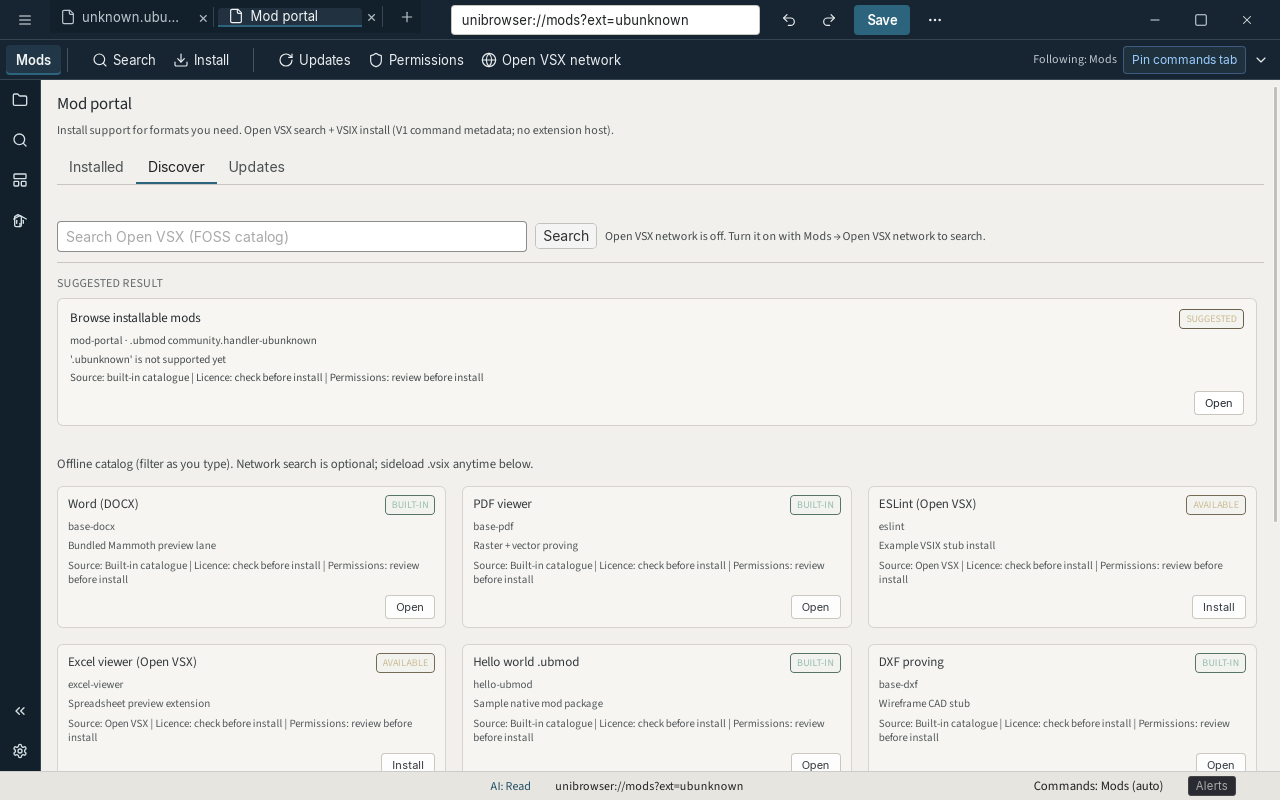
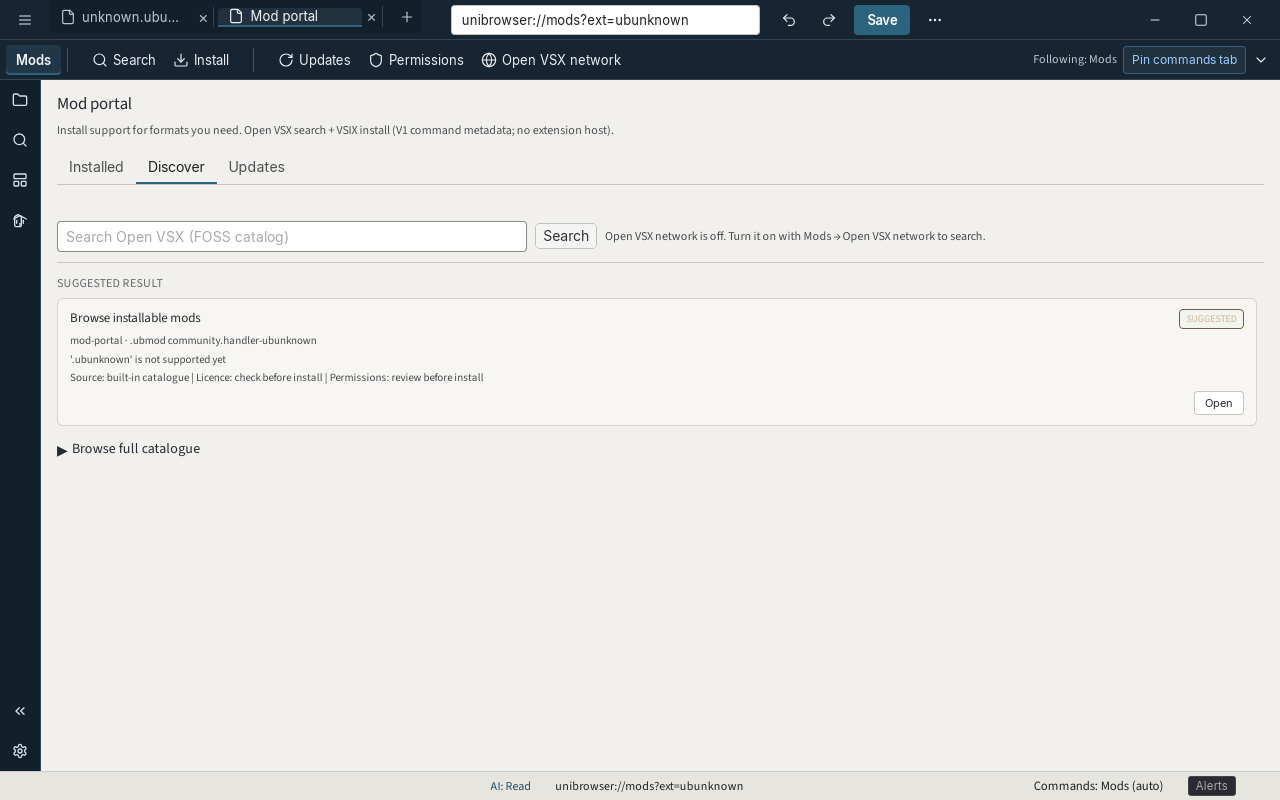
UI-28: Focus Mod Portal discovery

diff --git a/crates/unibrowser-desktop/src/main.ts b/crates/unibrowser-desktop/src/main.ts
@@ -941,6 +941,9 @@ function setModPortalTab(index: number) {
   modPortalPanel.querySelectorAll<HTMLButtonElement>(".mod-portal-tab").forEach((tab, i) => {
     tab.setAttribute("aria-current", i === index ? "page" : "false");
   });
+  modPortalPanel.querySelectorAll<HTMLElement>("[data-mod-portal-section]").forEach((section) => {
+    section.classList.toggle("hidden", section.dataset.modPortalSection !== String(index));
+  });
 }
 
 async function runModPortalOpenVsxSearch() {
@@ -1039,9 +1042,12 @@ function renderModPortal(portal: ModPortalDto | null) {
   catalogResults.className = "mod-portal-catalog mod-portal-catalog--restrained";
   const results = document.createElement("div");
   results.className = "mod-portal-results";
+  const discoverSection = document.createElement("section");
+  discoverSection.className = "mod-portal-discover";
+  discoverSection.dataset.modPortalSection = "1";
   searchRow.append(searchInput, searchBtn);
   renderModNetworkStatus(searchRow);
-  modPortalPanel.appendChild(searchRow);
+  discoverSection.appendChild(searchRow);
 
   const featured = document.createElement("section");
   featured.className = "mod-portal-featured";
@@ -1068,12 +1074,16 @@ function renderModPortal(portal: ModPortalDto | null) {
   if (primarySuggestion) {
     appendModSuggestionCard(featured, primarySuggestion, suggestionHandler, { featured: true });
   }
-  modPortalPanel.appendChild(featured);
+  discoverSection.appendChild(featured);
 
+  const catalogDisclosure = document.createElement("details");
+  catalogDisclosure.className = "mod-portal-catalog-disclosure";
+  const catalogSummary = document.createElement("summary");
+  catalogSummary.textContent = "Browse full catalogue";
   const catalogNote = document.createElement("p");
   catalogNote.className = "viewer-note mod-portal-catalog-note";
   catalogNote.textContent = t("mods.catalogNote");
-  modPortalPanel.appendChild(catalogNote);
+  catalogDisclosure.append(catalogSummary, catalogNote, catalogResults);
   void invoke<{ offline_mode: boolean }>("get_preferences").then((netPrefs) => {
     if (!netPrefs.offline_mode) {
       return;
@@ -1083,34 +1093,36 @@ function renderModPortal(portal: ModPortalDto | null) {
     const offlineNote = document.createElement("p");
     offlineNote.className = "viewer-note";
     offlineNote.textContent = t("mods.offlineModeActive");
-    modPortalPanel.insertBefore(offlineNote, catalogNote);
+    catalogDisclosure.insertBefore(offlineNote, catalogNote);
   });
-  modPortalPanel.appendChild(catalogResults);
-  modPortalPanel.appendChild(searchStatus);
-  modPortalPanel.appendChild(results);
+  discoverSection.append(catalogDisclosure, searchStatus, results);
+  modPortalPanel.appendChild(discoverSection);
 
+  const installedSection = document.createElement("section");
+  installedSection.className = "mod-portal-installed-section";
+  installedSection.dataset.modPortalSection = "0";
   const installedHeading = document.createElement("h3");
   installedHeading.textContent = t("mods.installedHeading");
-  modPortalPanel.appendChild(installedHeading);
+  installedSection.appendChild(installedHeading);
 
   const nativeHeading = document.createElement("h4");
   nativeHeading.textContent = t("mods.nativeHeading");
-  modPortalPanel.appendChild(nativeHeading);
+  installedSection.appendChild(nativeHeading);
   const userModNote = document.createElement("p");
   userModNote.className = "viewer-note";
   userModNote.textContent = t("mods.perModToggleNote");
-  modPortalPanel.appendChild(userModNote);
+  installedSection.appendChild(userModNote);
 
   const nativeList = document.createElement("div");
   nativeList.className = "mod-portal-installed mod-portal-native";
-  modPortalPanel.appendChild(nativeList);
+  installedSection.appendChild(nativeList);
 
   const vsixHeading = document.createElement("h4");
   vsixHeading.textContent = t("mods.vsixHeading");
-  modPortalPanel.appendChild(vsixHeading);
+  installedSection.appendChild(vsixHeading);
   const installedList = document.createElement("div");
   installedList.className = "mod-portal-installed mod-portal-vsix";
-  modPortalPanel.appendChild(installedList);
+  installedSection.appendChild(installedList);
 
   const developer = document.createElement("details");
   developer.className = "mod-portal-developer";
@@ -1142,7 +1154,20 @@ function renderModPortal(portal: ModPortalDto | null) {
     }
   };
   developer.append(developerSummary, side, sideloadBtn);
-  modPortalPanel.appendChild(developer);
+  installedSection.appendChild(developer);
+  modPortalPanel.appendChild(installedSection);
+
+  const updatesSection = document.createElement("section");
+  updatesSection.className = "mod-portal-updates-section";
+  updatesSection.dataset.modPortalSection = "2";
+  const updatesHeading = document.createElement("h3");
+  updatesHeading.textContent = "Updates";
+  const updatesEmpty = document.createElement("p");
+  updatesEmpty.className = "viewer-note";
+  updatesEmpty.textContent = "Installed mods are up to date.";
+  updatesSection.append(updatesHeading, updatesEmpty);
+  modPortalPanel.appendChild(updatesSection);
+  setModPortalTab(1);
 
   void refreshInstalledExtensions(nativeList, installedList);
 

diff --git a/crates/unibrowser-desktop/src/styles.css b/crates/unibrowser-desktop/src/styles.css
@@ -5692,6 +5692,10 @@ body.content-fullscreen #unknown-file-banner {
   overflow: auto;
 }
 
+[data-mod-portal-section].hidden {
+  display: none;
+}
+
 .mod-portal h2 {
   margin: 0 0 0.35rem;
   font-size: 1.05rem;
